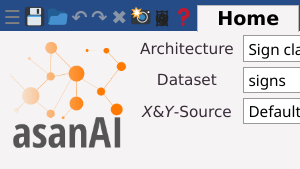
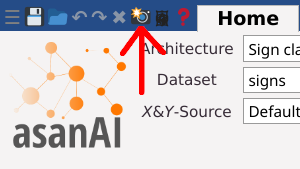
fix

Changed region(s): [[0.39, 0.1479, 0.57, 0.5621]]

diff --git a/handbook.html b/handbook.html
@@ -22,6 +22,7 @@
 		<style>
 			body {
 				font-family: sans-serif;
+				background-color: #e5e5e5;
 			}
 
 			.container{
@@ -68,6 +69,16 @@
 			The quickest and easiest way to create a neural network is to simply use images from the webcam.
 
 			Click on the camera icon &#128248; in the top-left of the ribbon.
+
+			<img src="camera_icon.png" />
+
+			You then get a screen where you can set how many images you want to take via webcam (default: 100) and how much time should between them in seconds (default: 0.9 seconds). If you want to take multiple pictures, set these settings accordingly and click "Take 100 images from webcam (0.9 seconds apart)" on the first category.
+
+			If you just want to use a single image, press "Take image from webcam" instead.
+
+			Each of these buttons is assigned to a category, which you can name. By default, there are 2 categories, but you can add as many as you like. If you want to remove a category, press "Delete this category". If you want to add a category, press "Add new category".
+
+			<img src="camera_data.png" />
 
 			<h3>Train on images from files</h3>
 			TODO
